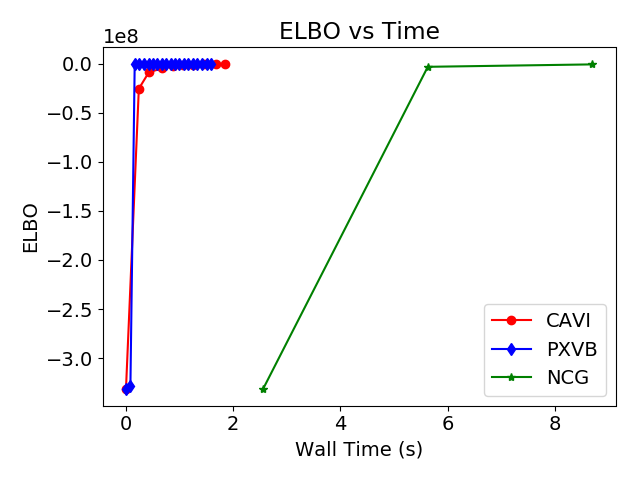
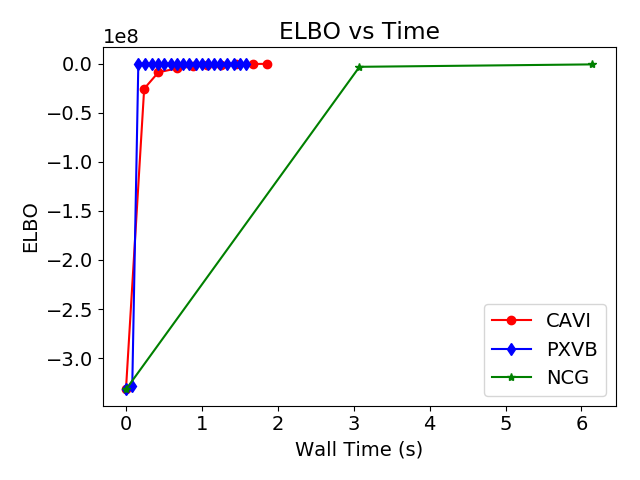
make all methods start at t0 in plot

diff --git a/Code/generate_plots.py b/Code/generate_plots.py
@@ -8,7 +8,7 @@ matplotlib.rcParams.update({'font.size': 14})
 
 # load output of Newton
 output0 = open('outputs/Newton_times_probit.pickle', 'rb')
-times_newt = pkl.load(output0)
+times_newt = np.array(pkl.load(output0))
 
 output1 = open('outputs/Newton_elbo_probit.pickle', 'rb')
 elbo_newt  = pkl.load(output1)
@@ -48,20 +48,23 @@ times_PXVB = pkl.load(output10)
 output11 = open('outputs/PXVB_pars_probit.pickle', 'rb')
 pars_PXVB = pkl.load(output11)
 
-"""
+
 # elbo plot
 plt.figure(1)
-m = min([elbo_cavi[0],elbo_pxvb[0], elbo_newt[0]])
-plt.plot(times_CAVI[:10], elbo_cavi[:10],'ro-')
-plt.plot(times_PXVB[:20], elbo_pxvb[:20],'bd-')
-plt.plot(times_newt[:3], elbo_newt[:3],'g*-')
+#m = min([elbo_cavi[0],elbo_pxvb[0], elbo_newt[0]])
+t0 = 0
+plt.plot(times_CAVI[t0:10] - times_CAVI[0], elbo_cavi[t0:10],'ro-')
+plt.plot(times_PXVB[t0:20] - times_PXVB[0], elbo_pxvb[t0:20],'bd-')
+plt.plot(times_newt[t0:3] - times_newt[0], elbo_newt[t0:3],'g*-')
 plt.xlabel("Wall Time (s)") 
 plt.ylabel("ELBO")
 plt.legend(['CAVI','PXVB','NCG'], loc= 4)
 plt.title('ELBO vs Time')
 plt.tight_layout()
 plt.savefig('../poster/Probit_real/elbo_time.png')
-"""
+plt.show()
+
+
 
 
 """
@@ -76,7 +79,7 @@ plt.ylabel("$\|w^t - w^*\|$")
 plt.legend(['CAVI','PXVB'], loc= 4)
 plt.title('Distance to Newton solution')
 """
-
+"""
 # pairwise diffs plot
 delta_cavi = [np.linalg.norm(pars_CAVI[i+1][:D] - pars_CAVI[i][:D]) for i in range(len(pars_CAVI)-1)]
 delta_pxvb = [np.linalg.norm(pars_PXVB[i+1][:D] - pars_PXVB[i][:D]) for i in range(len(pars_PXVB)-1)]
@@ -92,3 +95,5 @@ plt.title('Difference Between Consecutive Estimates')
 plt.tight_layout()
 #plt.savefig('../poster/Probit_real/CAVI_PX_convergence.png') 
 plt.show()
+
+"""
